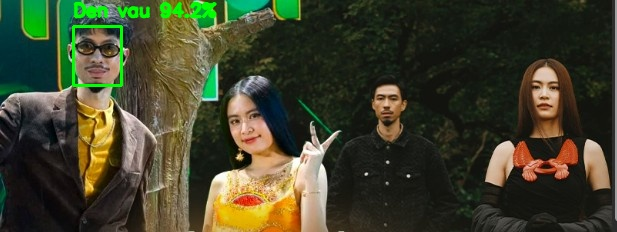
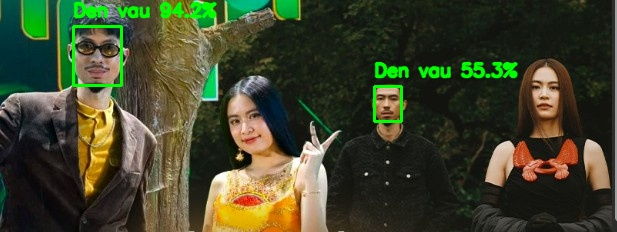
upd

Changed region(s): [[0.5851, 0.2414, 0.8622, 0.5431]]

diff --git a/report.html b/report.html
@@ -1,70 +1,96 @@
 
     <!DOCTYPE html>
-    <html lang="en">
+    <html>
     <head>
         <meta charset="UTF-8">
-        <title>IdentityFinder Report</title>
         <style>
-            body { font-family: 'Segoe UI', sans-serif; background-color: #0d1117; color: #c9d1d9; padding: 20px; }
+            body { background: #0d1117; color: #c9d1d9; font-family: 'Segoe UI', Tahoma, sans-serif; padding: 20px; }
+            h1 { text-align: center; color: #58a6ff; }
             .container { display: flex; flex-direction: column; align-items: center; gap: 20px; }
-            .card { background-color: #161b22; border: 1px solid #30363d; border-radius: 8px; width: 90%; max-width: 900px; }
-            .card-header { padding: 10px; background: #21262d; border-bottom: 1px solid #30363d; font-family: monospace; }
-            .card-info { padding: 10px; display: flex; gap: 10px; }
-            .tag { padding: 4px 10px; border-radius: 12px; font-size: 0.8em; border: 1px solid; }
-            .human { color: #3fb950; border-color: #3fb950; }
-            .anime { color: #d29922; border-color: #d29922; }
-            img { width: 100%; height: auto; }
+            .card { background: #161b22; border-radius: 10px; border: 1px solid #30363d; overflow: hidden; max-width: 95%; }
+            .card-header { background: #21262d; padding: 10px; font-family: monospace; font-size: 0.9em; }
+            .image-box { display: flex; justify-content: center; background: #000; padding: 5px; }
+            /* KHÔNG PHÓNG TO ẢNH - CHỈ HIỆN ĐÚNG SIZE HOẶC NHỎ HƠN */
+            img { max-width: 100%; height: auto; display: block; }
+            .card-info { padding: 15px; display: flex; gap: 8px; flex-wrap: wrap; }
+            .tag { padding: 4px 10px; border-radius: 12px; font-size: 0.85em; border: 1px solid; font-weight: bold; }
+            .human { color: #3fb950; border-color: rgba(63,185,80,0.4); background: rgba(63,185,80,0.1); }
+            .anime { color: #d29922; border-color: rgba(210,153,34,0.4); background: rgba(210,153,34,0.1); }
         </style>
     </head>
     <body>
-        <h1 style="text-align:center;">AI Recognition Analysis</h1>
+        <h1>RECOGNITION REPORT</h1>
         <div class="container">
             <div class="card">
-                <div class="card-header">000101.jpg</div>
-                <div class="image-container"><img src="web_results/res_000101.jpg"></div>
-                <div class="card-info"><span class='tag human'>Nghia (Man) - 95.9%</span></div>
+                <div class="card-header">File: 000101.jpg</div>
+                <div class="image-box">
+                    <img src="web_results/res_000101.jpg" alt="Result Image">
+                </div>
+                <div class="card-info"><span class='tag human'>Nghia (95.9%)</span><span class='tag human'>Khang (84.7%)</span></div>
             </div>
             
             <div class="card">
-                <div class="card-header">000102.jpg</div>
-                <div class="image-container"><img src="web_results/res_000102.jpg"></div>
-                <div class="card-info"><span class='tag human'>Nghia (Man) - 73.7%</span></div>
+                <div class="card-header">File: 000102.jpg</div>
+                <div class="image-box">
+                    <img src="web_results/res_000102.jpg" alt="Result Image">
+                </div>
+                <div class="card-info"><span class='tag human'>Huy (53.3%)</span><span class='tag human'>Nghia (73.7%)</span></div>
             </div>
             
             <div class="card">
-                <div class="card-header">denvau.jpg</div>
-                <div class="image-container"><img src="web_results/res_denvau.jpg"></div>
-                <div class="card-info"><span class='tag human'>Den vau (Man) - 94.2%</span></div>
+                <div class="card-header">File: denvau.jpg</div>
+                <div class="image-box">
+                    <img src="web_results/res_denvau.jpg" alt="Result Image">
+                </div>
+                <div class="card-info"><span class='tag human'>Den vau (94.2%)</span><span class='tag human'>Den vau (55.3%)</span></div>
             </div>
             
             <div class="card">
-                <div class="card-header">Screenshot 2026-03-17 032210.jpg</div>
-                <div class="image-container"><img src="web_results/res_Screenshot 2026-03-17 032210.jpg"></div>
-                <div class="card-info"><span class='tag human'>Donald trump (Man) - 73.0%</span></div>
+                <div class="card-header">File: Screenshot 2026-03-17 032210.jpg</div>
+                <div class="image-box">
+                    <img src="web_results/res_Screenshot 2026-03-17 032210.jpg" alt="Result Image">
+                </div>
+                <div class="card-info"><span class='tag human'>Donald trump (73.0%)</span></div>
             </div>
             
             <div class="card">
-                <div class="card-header">Screenshot 2026-03-17 133554.jpg</div>
-                <div class="image-container"><img src="web_results/res_Screenshot 2026-03-17 133554.jpg"></div>
-                <div class="card-info"><span class='tag human'>Putin (Man) - 88.4%</span></div>
+                <div class="card-header">File: Screenshot 2026-03-17 133554.jpg</div>
+                <div class="image-box">
+                    <img src="web_results/res_Screenshot 2026-03-17 133554.jpg" alt="Result Image">
+                </div>
+                <div class="card-info"><span class='tag human'>Putin (88.4%)</span></div>
             </div>
             
             <div class="card">
-                <div class="card-header">Screenshot 2026-03-17 133612.jpg</div>
-                <div class="image-container"><img src="web_results/res_Screenshot 2026-03-17 133612.jpg"></div>
-                <div class="card-info"><span class='tag human'>Putin (Man) - 88.7%</span></div>
+                <div class="card-header">File: Screenshot 2026-03-17 133612.jpg</div>
+                <div class="image-box">
+                    <img src="web_results/res_Screenshot 2026-03-17 133612.jpg" alt="Result Image">
+                </div>
+                <div class="card-info"><span class='tag human'>Putin (88.7%)</span></div>
             </div>
             
             <div class="card">
-                <div class="card-header">Screenshot 2026-03-17 133621.jpg</div>
-                <div class="image-container"><img src="web_results/res_Screenshot 2026-03-17 133621.jpg"></div>
-                <div class="card-info"><span class='tag human'>Putin (Man) - 77.5%</span></div>
+                <div class="card-header">File: Screenshot 2026-03-17 133621.jpg</div>
+                <div class="image-box">
+                    <img src="web_results/res_Screenshot 2026-03-17 133621.jpg" alt="Result Image">
+                </div>
+                <div class="card-info"><span class='tag human'>Putin (77.5%)</span></div>
             </div>
             
             <div class="card">
-                <div class="card-header">b540fa14-e811-4bba-8ff7-bdf75ae118a4.jpg</div>
-                <div class="image-container"><img src="web_results/res_b540fa14-e811-4bba-8ff7-bdf75ae118a4.jpg"></div>
-                <div class="card-info"><span class='tag human'>Nghia (Man) - 80.5%</span></div>
+                <div class="card-header">File: Screenshot 2026-03-17 133631.jpg</div>
+                <div class="image-box">
+                    <img src="web_results/res_Screenshot 2026-03-17 133631.jpg" alt="Result Image">
+                </div>
+                <div class="card-info"><span class='tag human'>Putin (79.9%)</span></div>
+            </div>
+            
+            <div class="card">
+                <div class="card-header">File: b540fa14-e811-4bba-8ff7-bdf75ae118a4.jpg</div>
+                <div class="image-box">
+                    <img src="web_results/res_b540fa14-e811-4bba-8ff7-bdf75ae118a4.jpg" alt="Result Image">
+                </div>
+                <div class="card-info"><span class='tag human'>Nghia (80.5%)</span></div>
             </div>
             </div>
     </body>

diff --git a/multiUsersIdentity_Matching.py b/multiUsersIdentity_Matching.py
@@ -9,7 +9,6 @@ import json
 from collections import defaultdict
 from scipy.spatial import distance
 
-# Hỗ trợ tiếng Việt cho Console
 sys.stdout = io.TextIOWrapper(sys.stdout.buffer, encoding='utf-8')
 
 CONN_STR = "Driver={SQL Server};Server=localhost\\SQLEXPRESS;Database=IdentityFinder;Trusted_Connection=yes;"
@@ -20,20 +19,12 @@ def normalize_vector(v):
     norm = np.linalg.norm(v)
     return v / norm if norm != 0 else v
 
-def draw_basic_bound(img, box, label, color):
-    """ Vẽ khung chữ nhật cơ bản nhất """
+def draw_simple_box(img, box, label, color):
+    """ Vẽ khung chữ nhật đơn giản nhất - Không banner, không màu mè """
     x, y, w, h = box['x'], box['y'], box['w'], box['h']
-    
-    # 1. Vẽ khung hình chữ nhật bao quanh mặt (Độ dày 2)
     cv2.rectangle(img, (x, y), (x + w, y + h), color, 2)
-
-    # 2. Vẽ nhãn tên phía trên khung
     font = cv2.FONT_HERSHEY_SIMPLEX
-    font_scale = 0.6
-    thickness = 2
-    
-    # Đặt text cách khung 10px về phía trên
-    cv2.putText(img, label, (x, y - 10), font, font_scale, color, thickness, cv2.LINE_AA)
+    cv2.putText(img, label, (x, y - 10), font, 0.6, color, 2, cv2.LINE_AA)
 
 def run_hybrid_matching():
     if os.path.exists(RESULT_IMG_DIR):
@@ -47,17 +38,14 @@ def run_hybrid_matching():
         print(f"Database Error: {e}")
         return
 
-    # 1. LOAD MASTER DATA
     cursor.execute("SELECT UserName, FaceData, UserAvatar, Gender FROM Users")
-    user_rows = cursor.fetchall()
     master_db = {}
-    for row in user_rows:
+    for row in cursor.fetchall():
         name = str(row[0]).capitalize()
         vectors = [normalize_vector(np.fromstring(v, sep=',')) for v in str(row[1]).split(';') if v.strip()]
         if vectors:
             master_db[name] = {"vectors": vectors, "avatar": row[2], "gender": row[3]}
     
-    # 2. LOAD TARGET IMAGES
     cursor.execute("SELECT FilePath, FaceData, BoxX, BoxY, BoxW, BoxH, FileName, Gender FROM ImageLabels")
     image_groups = defaultdict(list)
     for row in cursor.fetchall():
@@ -74,22 +62,21 @@ def run_hybrid_matching():
         if img is None: continue
 
         valid_detections = []
-        match_info_list = []
+        html_tags = []
 
         for f_row in faces:
             _, f_data, bx, by, bw, bh, filename, test_gender = f_row
-            if (bw * bh) < 2500: continue
+            if (bw * bh) < 600: continue
             
             box = {"x": bx, "y": by, "w": bw, "h": bh}
 
             if test_gender == 'Anime':
-                # Màu vàng hổ phách cho Anime
-                draw_basic_bound(img, box, "Anime Unit", (0, 165, 255))
+                draw_simple_box(img, box, "Anime", (0, 165, 255))
                 valid_detections.append({
-                    "box": box, "type": "Anime", "name": "Anime Character",
+                    "box": box, "type": "Anime", "name": "Anime Unit",
                     "gender": "Anime", "accuracy": 100.0, "master_avatar": ""
                 })
-                match_info_list.append(f"<span class='tag anime'>Anime</span>")
+                html_tags.append(f"<span class='tag anime'>Anime</span>")
             
             else:
                 if not f_data or not master_db: continue
@@ -98,24 +85,27 @@ def run_hybrid_matching():
                 scores = []
                 for name, info in master_db.items():
                     dists = [distance.cosine(curr_enc, v) for v in info["vectors"]]
-                    scores.append((name, min(dists), info["avatar"], info["gender"]))
+                    min_dist = min(dists)
+                    votes = sum(1 for d in dists if d < 0.38)
+                    scores.append((name, min_dist, info["avatar"], info["gender"], votes))
                 
                 scores.sort(key=lambda x: x[1])
-                best_name, best_dist, best_avatar, master_gender = scores[0]
+                b_name, b_dist, b_avatar, b_gender, b_votes = scores[0]
                 
-                if best_dist < 0.36:
-                    acc = max(0, min(99.9, (1 - (best_dist / 0.6)) * 100))
-                    
-                    # Màu xanh lá cây cho người (Basic)
-                    color = (0, 255, 0) 
-                    label_text = f"{best_name} {acc:.1f}%"
-                    draw_basic_bound(img, box, label_text, color)
+                is_match = False
+                if b_dist < 0.35:
+                    is_match = True
+                elif b_dist < 0.40 and b_votes >= 2:
+                    is_match = True
 
+                if is_match:
+                    acc = max(0, min(99.9, (1 - (b_dist / 0.6)) * 100))
+                    draw_simple_box(img, box, f"{b_name} {acc:.1f}%", (0, 255, 0))
                     valid_detections.append({
-                        "box": box, "type": "Human", "name": best_name,
-                        "gender": master_gender, "accuracy": round(acc, 2), "master_avatar": best_avatar
+                        "box": box, "type": "Human", "name": b_name,
+                        "gender": b_gender, "accuracy": round(acc, 2), "master_avatar": b_avatar
                     })
-                    match_info_list.append(f"<span class='tag human'>{best_name} ({master_gender})</span>")
+                    html_tags.append(f"<span class='tag human'>{b_name} ({acc:.1f}%)</span>")
 
         if valid_detections:
             res_filename = f"res_{os.path.basename(real_path)}"
@@ -128,15 +118,50 @@ def run_hybrid_matching():
                 "detections": valid_detections
             })
 
-            info_html = "".join(match_info_list)
-            html_items += f"""<div class="card"><div class="card-header">{os.path.basename(real_path)}</div>
-                            <div class="image-container"><img src="web_results/{res_filename}"></div>
-                            <div class="card-info">{info_html}</div></div>"""
+            tags_html = "".join(html_tags)
+            html_items += f"""
+            <div class="card">
+                <div class="card-header">File: {os.path.basename(real_path)}</div>
+                <div class="image-box">
+                    <img src="web_results/{res_filename}" alt="Result Image">
+                </div>
+                <div class="card-info">{tags_html}</div>
+            </div>
+            """
 
     with open("results.json", "w", encoding="utf-8") as jf:
         json.dump(winform_data, jf, indent=4, ensure_ascii=False)
-    
-    print(f"[*] DONE: Basic frames rendered. JSON updated.")
+
+    html_template = f"""
+    <!DOCTYPE html>
+    <html>
+    <head>
+        <meta charset="UTF-8">
+        <style>
+            body {{ background: #0d1117; color: #c9d1d9; font-family: 'Segoe UI', Tahoma, sans-serif; padding: 20px; }}
+            h1 {{ text-align: center; color: #58a6ff; }}
+            .container {{ display: flex; flex-direction: column; align-items: center; gap: 20px; }}
+            .card {{ background: #161b22; border-radius: 10px; border: 1px solid #30363d; overflow: hidden; max-width: 95%; }}
+            .card-header {{ background: #21262d; padding: 10px; font-family: monospace; font-size: 0.9em; }}
+            .image-box {{ display: flex; justify-content: center; background: #000; padding: 5px; }}
+            /* KHÔNG PHÓNG TO ẢNH - CHỈ HIỆN ĐÚNG SIZE HOẶC NHỎ HƠN */
+            img {{ max-width: 100%; height: auto; display: block; }}
+            .card-info {{ padding: 15px; display: flex; gap: 8px; flex-wrap: wrap; }}
+            .tag {{ padding: 4px 10px; border-radius: 12px; font-size: 0.85em; border: 1px solid; font-weight: bold; }}
+            .human {{ color: #3fb950; border-color: rgba(63,185,80,0.4); background: rgba(63,185,80,0.1); }}
+            .anime {{ color: #d29922; border-color: rgba(210,153,34,0.4); background: rgba(210,153,34,0.1); }}
+        </style>
+    </head>
+    <body>
+        <h1>RECOGNITION REPORT</h1>
+        <div class="container">{html_items if html_items else "<h3>No data found.</h3>"}</div>
+    </body>
+    </html>
+    """
+    with open("report.html", "w", encoding="utf-8") as f:
+        f.write(html_template)
+
+    print(f"[*] DONE: Accuracy & Correct Image Size.")
     conn.close()
 
 if __name__ == "__main__":
